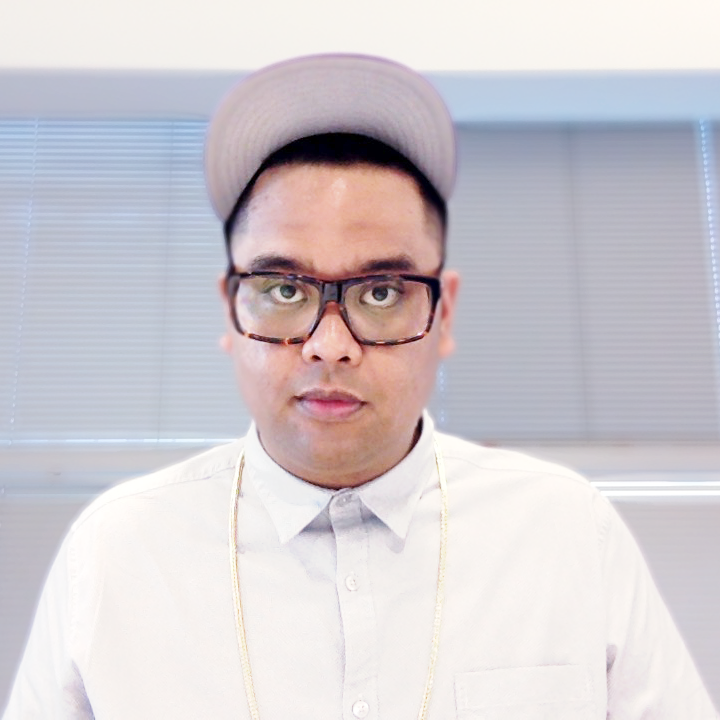
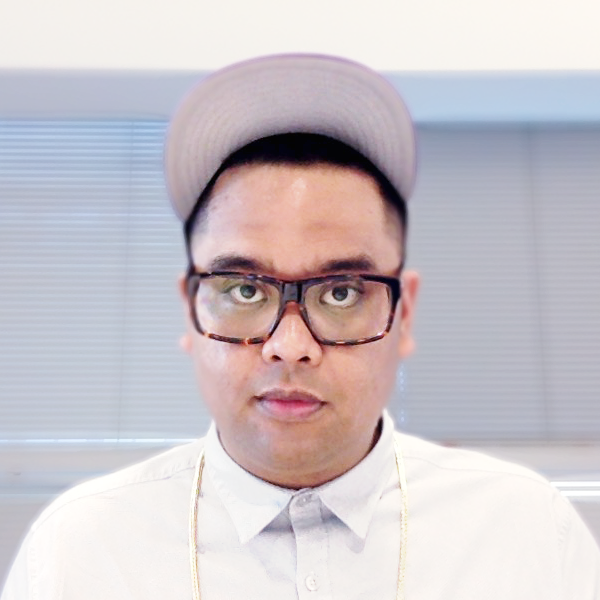
mvp 3

diff --git a/index.html b/index.html
@@ -1,44 +1,51 @@
 ---
 layout: default
 ---
-<div class="home">
-    <div class="home--profile">
-        <img class="image--profile" src="./assets/randy-2016.png" alt="">
-        <h1 class="home--title">Randy Tolentino</h1>
-        <h4 class="home--title--subtitle">Front-end Software Developer</h4>
-    </div>
-    <div class="home--information">
-        <ul class="list--social">
-            <a href="https://github.com/techtolentino">
-                <li>
-                    {% include /assets/icon-github.svg %}
-                    github
-                </li>
-            </a>
-            <a href="https://twitter.com/techtolentino">
-                <li>
-                    {% include /assets/icon-twitter.svg %}
-                    twitter
-                </li>
-            </a>
-            <a href="https://linkedin.com/in/randytolentino">
-                <li>
-                    {% include /assets/icon-linkedin.svg %}
-                    linkedin
-                </li>
-            </a>
-            <a href="http://randytolentino.com/blog">
-                <li>
-                    {% include /assets/icon-blog.svg %}
-                    blog
-                </li>
-            </a>
-            <a href="mailto:makertolentino@gmail.com">
-                <li>
-                    {% include /assets/icon-blog.svg %}
-                    email
-                </li>
-            </a>
-        </ul>
+<div class="layer--MEDIUM">
+    <div class="home">
+        <div class="home--profile align--center">
+            <div class="home--profile--top">
+                <img class="image--profile" src="./assets/randy-2016.png" alt="">
+            </div>
+            <div class="home--profile--bottom">
+                <h3 class="home--title">Randy Tolentino</h3>
+                <p class="home--title--subtitle">Front-end Software Developer</p>
+            </div>
+        </div>
+        <div class="home--information">
+            <p>Lorem ipsum dolor sit amet, consectetur adipisicing elit. Totam aspernatur itaque doloribus est neque, quas dolorum libero mollitia porro perferendis, deserunt maxime ducimus quia laborum harum, culpa odit esse quasi.</p>
+            <ul class="list--social">
+                <a href="https://github.com/techtolentino">
+                    <li>
+                        {% include /assets/icon-github.svg %}
+                        <p>github</p>
+                    </li>
+                </a>
+                <a href="https://twitter.com/techtolentino">
+                    <li>
+                        {% include /assets/icon-twitter.svg %}
+                        <p>twitter</p>
+                    </li>
+                </a>
+                <a href="https://linkedin.com/in/randytolentino">
+                    <li>
+                        {% include /assets/icon-linkedin.svg %}
+                        <p>linkedin</p>
+                    </li>
+                </a>
+                <a href="http://randytolentino.com/blog">
+                    <li>
+                        {% include /assets/icon-blog.svg %}
+                        <p>blog</p>
+                    </li>
+                </a>
+                <a href="mailto:makertolentino@gmail.com">
+                    <li>
+                        {% include /assets/icon-email.svg %}
+                        <p>email</p>
+                    </li>
+                </a>
+            </ul>
+        </div>
     </div>
 </div>

diff --git a/_sass/_home.scss b/_sass/_home.scss
@@ -1,25 +1,31 @@
 .home {
-    height: 100vh;
     display: flex;
-    flex-direction: column;
+    box-shadow: .5em 1em 4em lighten($gray, 30%);
+    max-width: 100%;
+    width: $large-screen;
+    margin: 0 auto;
+    overflow: hidden;
 
     &--profile {
-        text-align: center;
-        padding: 2em;
-        background: $secondary;
-        color: $background-color;
+        border-right: 2px solid lighten($gray, 20%);
+        &--top {
+            background: $primary;
+        }
+
+        &--bottom {
+            background: lighten($primary, 10%);
+            padding-top: $spacing-unit / 2;
+            height: 100%;
+            color: $background-color;
+        }
     }
 
     &--information {
+        padding: $spacing-unit / 2;
+        flex-grow: 1;
     }
 
     &--title {
-        font-size: 2.369em;
-        margin: 0;
-        padding-bottom: 0.35em;
-
-        &--subtitle {
-            font-size: 1.15em;
-        }
+        margin-bottom: .25em;
     }
 }

diff --git a/_sass/_list.scss b/_sass/_list.scss
@@ -9,27 +9,16 @@
 
         a {
             padding: .5em;
-            color: $background-color;
+            text-decoration: none;
+            color: $primary;
 
-            &:nth-child(1) {
-                background: $danger;
+            &:not(:last-child) {
+                border-bottom: 1px solid lighten($gray, 30%);
             }
+        }
 
-            &:nth-child(2) {
-                background: lighten($danger, 5%);
-            }
-
-            &:nth-child(3) {
-                background: lighten($danger, 10%);
-            }
-
-            &:nth-child(4) {
-                background: lighten($danger, 15%);
-            }
-
-            &:nth-child(5) {
-                background: lighten($danger, 20%);
-            }
+        p {
+            margin: .5em;
         }
     }
 }

diff --git a/_sass/_image.scss b/_sass/_image.scss
@@ -2,15 +2,13 @@
     max-width: 100%;
 
     &--profile {
-        max-width: 15em;
-        border-radius: 50%;
-        border: 1px solid $background-color;
-        margin-bottom: $spacing-unit;
-        margin-top: $spacing-unit;
+        max-width: 18em;
     }
 
     &--svg--icon {
-        max-width: 2em;
+        max-width: 1.5em;
+        float: left;
+        margin-right: $spacing-unit;
     }
 }
 
